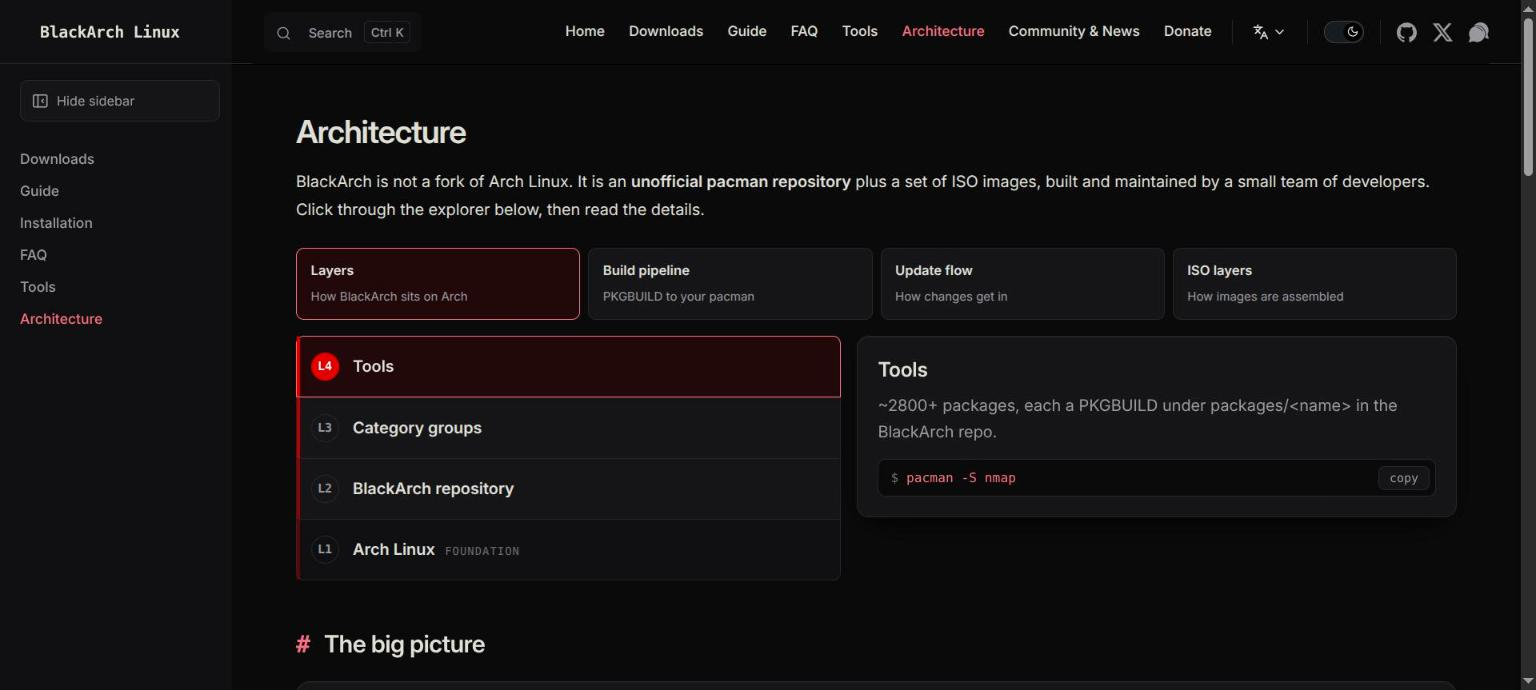
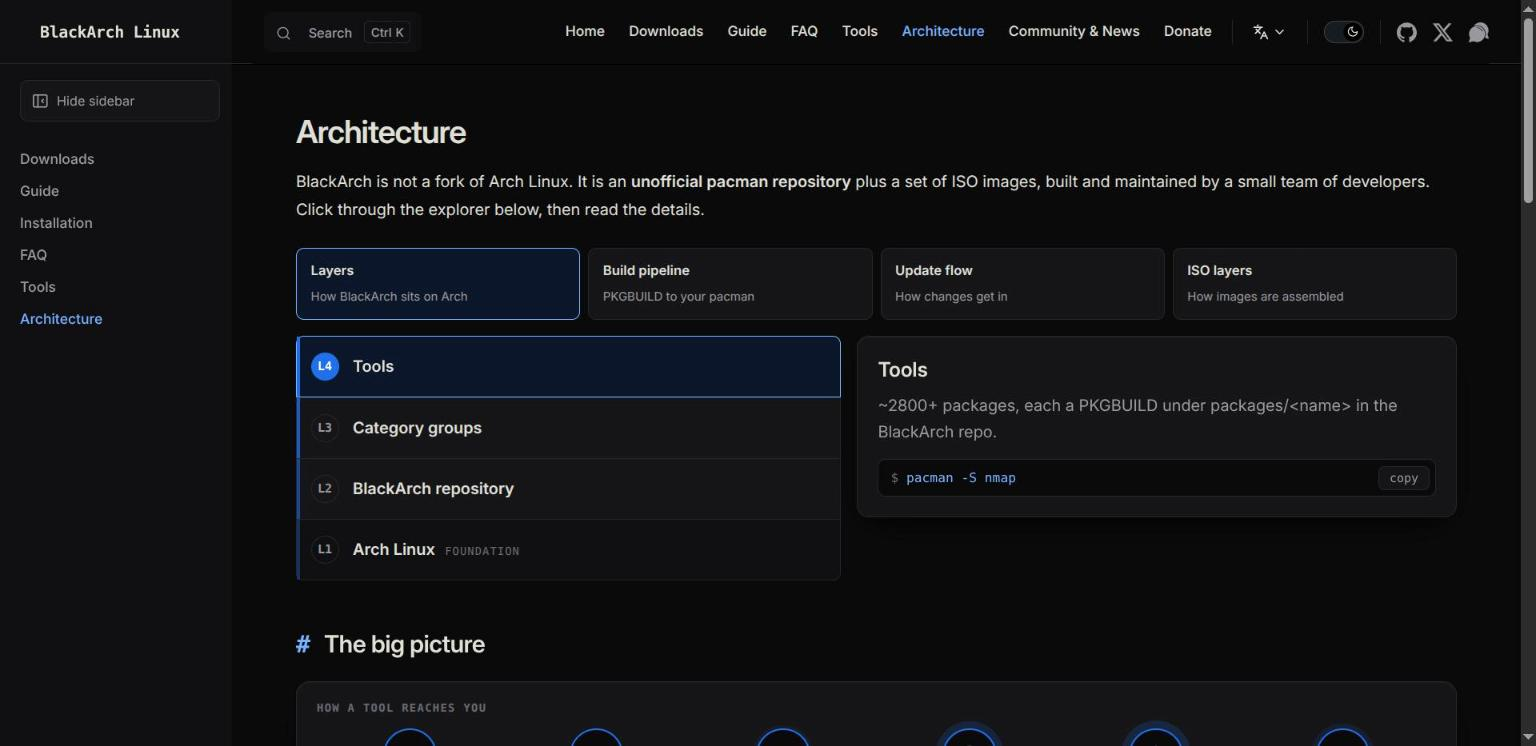
docs: describe deploys and the tools sync, retake screenshots in blue

diff --git a/README.md b/README.md
@@ -29,26 +29,46 @@ pnpm install
 pnpm dev        # dev server with hot reload
 ```
 
-| Command              | What it does                                                                      |
-| -------------------- | --------------------------------------------------------------------------------- |
-| `pnpm dev`           | Start the dev server                                                              |
-| `pnpm build`         | Production build into `src/.vitepress/dist`                                       |
-| `pnpm preview`       | Serve the production build locally                                                |
-| `pnpm check`         | Everything CI runs: formatting, lint and build                                    |
-| `pnpm format`        | Format the code with Prettier                                                     |
-| `pnpm format:check`  | Check formatting without changing files (what CI should run)                      |
-| `pnpm lint`          | Lint with [oxlint](https://oxc.rs/docs/guide/usage/linter.html)                   |
-| `pnpm gen:locales`   | Regenerate the per-language page stubs (see [Translating](#translating))          |
-| `pnpm sync:mirrors`  | Refresh the mirror list from blackarch.org                                        |
-| `pnpm sync:wiki`     | Refresh tool package groups from the BlackArch wiki repository                    |
-| `pnpm sync:updates`  | Refresh tool build dates from the BlackArch package database                      |
-| `pnpm sync:stars`    | Refresh the GitHub stars used for the "Most popular" ordering                     |
-| `pnpm sync:links`    | Update tool links, follow moved sites and list dead links (takes a few minutes)   |
-| `pnpm sync:versions` | Refresh tool versions from the BlackArch package database                         |
-| `pnpm seo:indexnow`  | Submit the sitemap pages to Bing/DuckDuckGo through IndexNow (run after a deploy) |
+| Command             | What it does                                                                      |
+| ------------------- | --------------------------------------------------------------------------------- |
+| `pnpm dev`          | Start the dev server                                                              |
+| `pnpm build`        | Production build into `src/.vitepress/dist`                                       |
+| `pnpm preview`      | Serve the production build locally                                                |
+| `pnpm check`        | Everything CI runs: formatting, lint and build                                    |
+| `pnpm format`       | Format the code with Prettier                                                     |
+| `pnpm format:check` | Check formatting without changing files (what CI should run)                      |
+| `pnpm lint`         | Lint with [oxlint](https://oxc.rs/docs/guide/usage/linter.html)                   |
+| `pnpm gen:locales`  | Regenerate the per-language page stubs (see [Translating](#translating))          |
+| `pnpm sync:tools`   | Rebuild the tools list from the BlackArch package database                        |
+| `pnpm sync:mirrors` | Refresh the mirror list from blackarch.org                                        |
+| `pnpm sync:wiki`    | Refresh the list of tools that have a page on the BlackArch wiki                  |
+| `pnpm sync:stars`   | Refresh the GitHub stars used for the "Most popular" ordering                     |
+| `pnpm sync:links`   | Update tool links, follow moved sites and list dead links (takes a few minutes)   |
+| `pnpm seo:indexnow` | Submit the sitemap pages to Bing/DuckDuckGo through IndexNow (run after a deploy) |
 
-The site is deployed to GitHub Pages by `.github/workflows/main.yml`: every push and pull request
-is checked and built, and a push to `main` then publishes that same build.
+## Deploying and updating the tools list
+
+`.github/workflows/main.yml` checks and builds every push and pull request. It deploys to GitHub
+Pages on every push to `main`, **once a day**, and whenever it is started by hand. Before each
+deploy it syncs the tools list from the BlackArch package database, so new, updated and removed
+packages show up on the site without a commit.
+
+To update the site right now, use **Actions > main-ci > Run workflow** on GitHub, or:
+
+```bash
+gh workflow run main.yml
+```
+
+To do the same on your own machine or server (the equivalent of the old `auto.sh`):
+
+```bash
+pnpm install
+pnpm sync:tools                               # refresh the tools list
+SITE_URL=https://blackarch.org/ pnpm build    # the site is written to src/.vitepress/dist
+```
+
+`SITE_URL` is the address the site will be served from. It defaults to the GitHub Pages address
+and also sets the base path, the sitemap and the canonical links.
 
 ## Project layout
 
@@ -76,7 +96,7 @@ scripts/                     Maintenance scripts (see below)
 ## Conventions
 
 - **Colours and sizes** come from the CSS variables in `theme/styles/tokens.css`. Do not hard-code
-  colours in components.
+  colours in components. The whole site takes its colour from the `--ba-accent` values there.
 - **Component styles** are scoped and use CSS _logical_ properties (`margin-inline-start`,
   `inset-inline-end`, ...) so that right-to-left languages work without overrides.
 - **User-visible text** in components goes through `useT(namespace, englishDefaults)` so it can be
@@ -120,25 +140,25 @@ by the generator. `src/content/it/` is a complete example.
 
 ## Keeping data up to date
 
-| Data                | File                                                         | How to update                                                                                                                                                                                                                                        |
-| ------------------- | ------------------------------------------------------------ | ---------------------------------------------------------------------------------------------------------------------------------------------------------------------------------------------------------------------------------------------------- |
-| Mirrors             | `src/data/mirrors.json`                                      | `pnpm sync:mirrors` (copies the official list on blackarch.org)                                                                                                                                                                                      |
-| Tool package groups | `src/data/tool-groups.json`, `tool-docs.json`                | `pnpm sync:wiki` (reads [anunna/blackarch-wiki](https://github.com/anunna/blackarch-wiki))                                                                                                                                                           |
-| ISO images          | `src/data/images.json`                                       | Edit by hand when a new image is released: release date, size, file name and checksums. Take SHA1 from <https://blackarch.org/downloads.html>, check the downloaded file against it, then compute the others (`sha256sum`, `openssl dgst -sha3-256`) |
-| `strap.sh` checksum | `src/content/en/downloads.md`, `src/content/it/downloads.md` | Update the `sha256sum -c` line. Check the script against the SHA1 on the official downloads page first, then run `sha256sum strap.sh`                                                                                                                |
-| Tool update dates   | `src/data/tool-updates.json`                                 | `pnpm sync:updates` (build dates from the official package database)                                                                                                                                                                                 |
-| Tool popularity     | `src/data/tool-stars.json`                                   | `pnpm sync:stars` (GitHub stars; needs `GITHUB_TOKEN` or the `gh` CLI)                                                                                                                                                                               |
-| Tool versions       | `src/data/tools/*.json`                                      | `pnpm sync:versions` (current versions from the package database)                                                                                                                                                                                    |
-| Tool links          | `src/data/tools/*.json`, `tool-dead-links.json`              | `pnpm sync:links` (current URLs from the package database, Google Code archive and redirects; dead links are tagged on the Tools page)                                                                                                               |
-| Tool list           | `src/data/tools/*.json`                                      | One file per category. `scripts/convert_files_to_json.sh` converts the pipe-separated package lists (`name\|version\|description\|url`)                                                                                                              |
-| Team                | `src/data/developers.json`                                   | Add `github` and `avatar` (a file in `src/content/public/team/`) when known                                                                                                                                                                          |
-| Supporters          | `src/data/donors.json`                                       | Add new donations at the top                                                                                                                                                                                                                         |
-| Screenshots         | `src/data/screenshots.json`                                  | Files are loaded from blackarch.org/images/screenshots                                                                                                                                                                                               |
+| Data                | File                                                                        | How to update                                                                                                                                                                                                                                        |
+| ------------------- | --------------------------------------------------------------------------- | ---------------------------------------------------------------------------------------------------------------------------------------------------------------------------------------------------------------------------------------------------- |
+| Mirrors             | `src/data/mirrors.json`                                                     | `pnpm sync:mirrors` (copies the official list on blackarch.org)                                                                                                                                                                                      |
+| ISO images          | `src/data/images.json`                                                      | Edit by hand when a new image is released: release date, size, file name and checksums. Take SHA1 from <https://blackarch.org/downloads.html>, check the downloaded file against it, then compute the others (`sha256sum`, `openssl dgst -sha3-256`) |
+| `strap.sh` checksum | `src/content/en/downloads.md`, `src/content/it/downloads.md`                | Update the `sha256sum -c` line. Check the script against the SHA1 on the official downloads page first, then run `sha256sum strap.sh`                                                                                                                |
+| Tool popularity     | `src/data/tool-stars.json`                                                  | `pnpm sync:stars` (GitHub stars; needs `GITHUB_TOKEN` or the `gh` CLI)                                                                                                                                                                               |
+| Tool links          | `src/data/tools/*.json`, `tool-dead-links.json`, `tool-link-redirects.json` | `pnpm sync:links` follows moved sites and lists dead links (takes a few minutes)                                                                                                                                                                     |
+| Tools list          | `src/data/tools/*.json`                                                     | `pnpm sync:tools` rebuilds it from the BlackArch package database: names, versions, descriptions, groups and build dates. One file per category. Also runs on every deploy                                                                           |
+| Wiki pages          | `src/data/tool-docs.json`                                                   | `pnpm sync:wiki` (tools with a page on [blackarch.wiki](https://blackarch.wiki))                                                                                                                                                                     |
+| FAQ                 | `src/data/faq.js`                                                           | Edit by hand. Translations override entries by id in `src/i18n/locales/<code>.js`                                                                                                                                                                    |
+| Team                | `src/data/developers.json`                                                  | Add `github` and `avatar` (a file in `src/content/public/team/`) when known                                                                                                                                                                          |
+| Supporters          | `src/data/donors.json`                                                      | Add new donations at the top                                                                                                                                                                                                                         |
+| Screenshots         | `src/data/screenshots.json`                                                 | Files are loaded from blackarch.org/images/screenshots                                                                                                                                                                                               |
 
 After changing data, run `pnpm build` and check the affected page.
 
-The `refresh-data` workflow runs all of the `sync:*` scripts every Monday and opens a pull
-request with the result, after checking that the site still builds.
+The `refresh-data` workflow runs all of the `sync:*` scripts every Monday and pushes the result to
+a branch for a pull request, after checking that the site still builds. This keeps the data in the
+repository fresh, including the slower link and star checks.
 
 ## Contributing
 

diff --git a/CHANGELOG.md b/CHANGELOG.md
@@ -7,6 +7,13 @@ All notable changes to this project are documented here. The format follows
 
 ### Added
 
+- Daily and manual deploys: `main-ci` runs every day and on demand, and syncs the tools list from
+  the BlackArch package database before each deploy.
+- `pnpm sync:tools` rebuilds the whole tools list from the package database, replacing the separate
+  version, build-date and group scripts.
+- `SITE_URL` sets the address the site is built for, so it can be built for another domain.
+- FAQ structured data (`FAQPage`) for the English and Italian FAQ.
+
 - New terminal-style theme (dark by default): wide pages that use the full screen, a collapsible
   sidebar, and design tokens in `theme/styles/`.
 - Animated hero logo: the sword slides in, the neon arch ignites and breathes, and light sweeps
@@ -44,6 +51,10 @@ All notable changes to this project are documented here. The format follows
 - README with setup, project layout, conventions, translation workflow and data maintenance.
 
 ### Changed
+
+- The site colour is now blue instead of red, to match the BlackArch logo and desktop themes. All
+  components take it from the `--ba-accent` tokens.
+- The tools list follows the package database: 94 tools added, 75 removed.
 
 - Downloads page lists only the Slim and NetInstall ISOs as cards with version, size, copyable
   SHA1 and torrent links. Full ISO and OVA are no longer listed.
